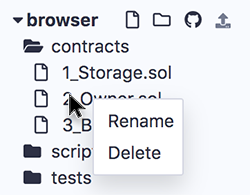
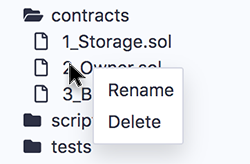
update files explorer md

diff --git a/docs/file_explorer.md b/docs/file_explorer.md
@@ -5,54 +5,71 @@ To get to the File Explorers module - click the file explorers icon.
 
 ![](images/a-file-explorer1.png)
 
-By default Remix IDE **ONLY** stores files in your browser's local storage.  It is possible to go beyond this default behavior - see the **Important Note** below.
+File Storage
+------------
+By default, Remix IDE stores files in **Workspaces** which are folders in your **browser's local storage**.  
 
-The files explorer's **browser folder** has a sample project in it. The files are stored in your browser's **browser storage**.
+**Important Note:** Clearing the browser storage will **permanently delete** all the files stored there. 
 
-If you open Remix IDE and you do not see the sample project (like in the image above), they will appear when all the files in the File Explorer are erased or when the cache is cleared.
+If you want to use browser storage, but also to save to save a git repo on IPFS, use the **DGIT** plugin.
 
-**Important Note:** Clearing the browser storage will **permanently delete** all the
-solidity files stored there. This is an inherent limitation of a browser-based IDE.  However, if you want to store files outside of the browser and on your computer's filesystem, use [RemixD](remixd.html) or use the [desktop version of Remix-IDE](https://github.com/ethereum/remix-desktop/releases/). RemixD enables you to have access to a selected folder on your hard drive. Remix Desktop is a version of Remix-IDE in an Electron app. Furthermore you can use the DGIT plugin to save a git repo of your files in IPFS.
+If you want to store files on your computer's filesystem, use **[Remixd](remixd.html)** or use the **[desktop version of Remix-IDE](https://github.com/ethereum/remix-desktop/releases/)**. Remixd enables you to have access to a selected folder on your hard drive. Remix Desktop is a version of Remix-IDE in an Electron app. 
 
-You can rename, remove or
-add new files to the file explorer.
+Workspaces
+------------
+Workspaces are new as of Remix IDE v0.11.0..  Workspaces should help clean up & organize your Files Explorer by allowing you to separate your projects.
+
+The Files Explorer's Workspaces all have a contracts folder, a scripts folder, a tests folder, and a README.txt.
+
+### Migrating your files to Workspaces
+If you had files stored in browser storage in versions of Remix before v0.11.0 to get these files, you will need to click on the **Migrate old filesystem to workspace** link the Home Tab.  After you click on that, you'll get a modal asking if you want to migrate and download or just migrate the files.
+
+![](images/a-migrate-download-btns2.png)
+
+Also note the **Download all files** link on the left of the Home tab. This link will download all files in your browser's local storage to your downloads folder.
+
+Files Explorer Tour
+-------------------
 
 ![](images/a-file-explorer-buttons.png)
 
 We will start by reviewing the icons in the image above.
 
-The book icon - **A.** is the link to the module's documentation.
+The book icon - **A.** is the link to the documentation (this page).
 
-The icons to the right of the **browser** file explorer in the image above only appear for browser storage. 
+### Workspace Manipulation
+Add a Workspace **B.** <br>
+Rename a Workspace **C.** <br>
+Delete a Workspace **D.** <br>
 
-Create new File
----------------
+## File Manipulation
 
-Click on the new file icon, an input for a new the file’s name will appear in the **Explorer**. Once a name is entered, the new empty file will open in the Editor.
+Click on the new file icon (**E.**), an input for a new the file’s name will appear in the **Explorer**. Once a name is entered, the new empty file will open in the Editor.
 
 ![](images/a-file-explorer-new-file2.png)
 
-When you click on the new file icon, the new file will be placed in the currently selected folder. If a file and not a folder is selected then the new file will be placed in that file’s folder. And if nothing is selected, then the file will be placed in the root of the browser folder. Or to be brief — just be mindful of what folder it lands in.
+When you click on the new file icon, the new file will be placed in the currently selected folder. If a file and not a folder is selected then the new file will be placed in that file’s folder. And if nothing is selected, then the file will be placed in the root of the current workspace's folder. Or to be brief — just be mindful of what folder it lands in.
 
 Create a folder
 ---------------
 
-The icon marked **C.** above.  Creates a new folder in **browser** file explorer.
+The icon (marked **F.** above) creates a new folder in the current workspace.
 
 Publish to Gist
 ---------------
 
-The icon marked **D.** above. Publishes all files from the browser folder to a gist.  Only file in the root of **browser** will be published.  Files in subfolders will not be publish to the Gist.
-Gist API **requires** users to be authenticated to be able to publish a gist.
+The icon (marked **G.** above) publishes all files from the current Workspace to a gist.  Only file in the root of **browser** will be published.  Files in subfolders will not be publish to the Gist.
 
-Click [this link](https://github.com/settings/tokens) to Github tokens setup and select Generate new token. Then check the **Create gists** checkbox and generate a new token.
+Gist API **requires** users to be authenticated to be able to publish a gist.  
 
-Take the token and paste it in Remix's **Settings** module in the **Github Access Token** section. And then click Save. For the moment, after saving, in order for the token to be registered, you will need to refresh Remix. In an upcoming release, it will not be necessary to do the refresh.
+Click [this link](https://github.com/settings/tokens) to Github tokens setup and select Generate new token. Then check the **Create gists** checkbox and generate a new token. Also make sure you check the box to enable the creation of Gists with this token.
+
+Take the token and paste it in Remix's **Settings** module in the **Github Access Token** section. And then click Save. **For the moment**, after saving, in order for the token to be registered, you will need to refresh Remix. In an upcoming release, it will not be necessary to do the refresh.
 
 Upload to Browser Storage
 ---------------
 
-Click the icon marked **E.** to upload a file from your computer's file system to your browser's local storage.
+Click the icon marked **H.** to upload a file from your computer's file system to your browser's local storage.
 
 Right Click on a File
 ----------------------
@@ -78,4 +95,6 @@ Right Click on a Script
 
 ![](images/a-file-ex-rt-click-script.png)
 
-Right click on any file with a .js extension will give the **run** option in the context menu.  The **run** shortcut is equivalent to getting the script file to be the active tab in the editor and then running the command `remix.exeCurrent()` in the console.
+Right click on any file with a .js extension get the **Run** option in the context menu to run the script.  The **Run** in the context menu is a shortcut.  The other way to get a script to run is to:
+1. Click on the script to make it the active tab in the editor 
+2. Input the command `remix.exeCurrent()` in the console.
